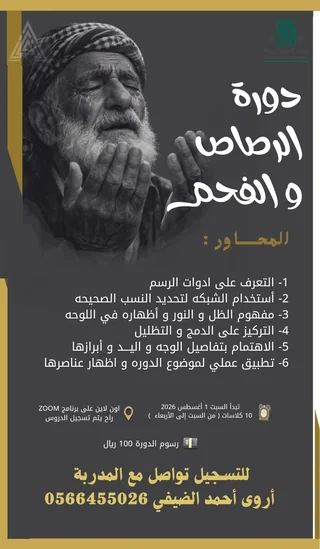
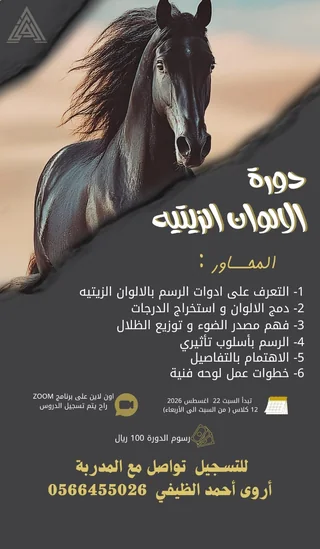
feat: update workshop for August 22

diff --git a/index.html b/index.html
@@ -237,7 +237,7 @@
                     <img
                       class="home-image home-image--hand"
                       src="static/pic/workshop.jpeg"
-                      alt="إعلان دورة الرسم بالفحم والرصاص للفنانة أروى، تبدأ في 1 أغسطس 2026"
+                      alt="إعلان دورة الرسم بالألوان الزيتية للفنانة أروى، تبدأ في 22 أغسطس 2026"
                       width="932"
                       height="1600"
                       fetchpriority="high"

diff --git a/static/main.js b/static/main.js
@@ -245,7 +245,7 @@ const paintingGalleryOrder = [
   17,
 ];
 
-const workshopStartDate = new Date("2026-08-01T15:00:00+03:00");
+const workshopStartDate = new Date("2026-08-22T15:00:00+03:00");
 
 function startCountUpAnimation() {
   const countUpElements = document.querySelectorAll(".animation-count-up");
